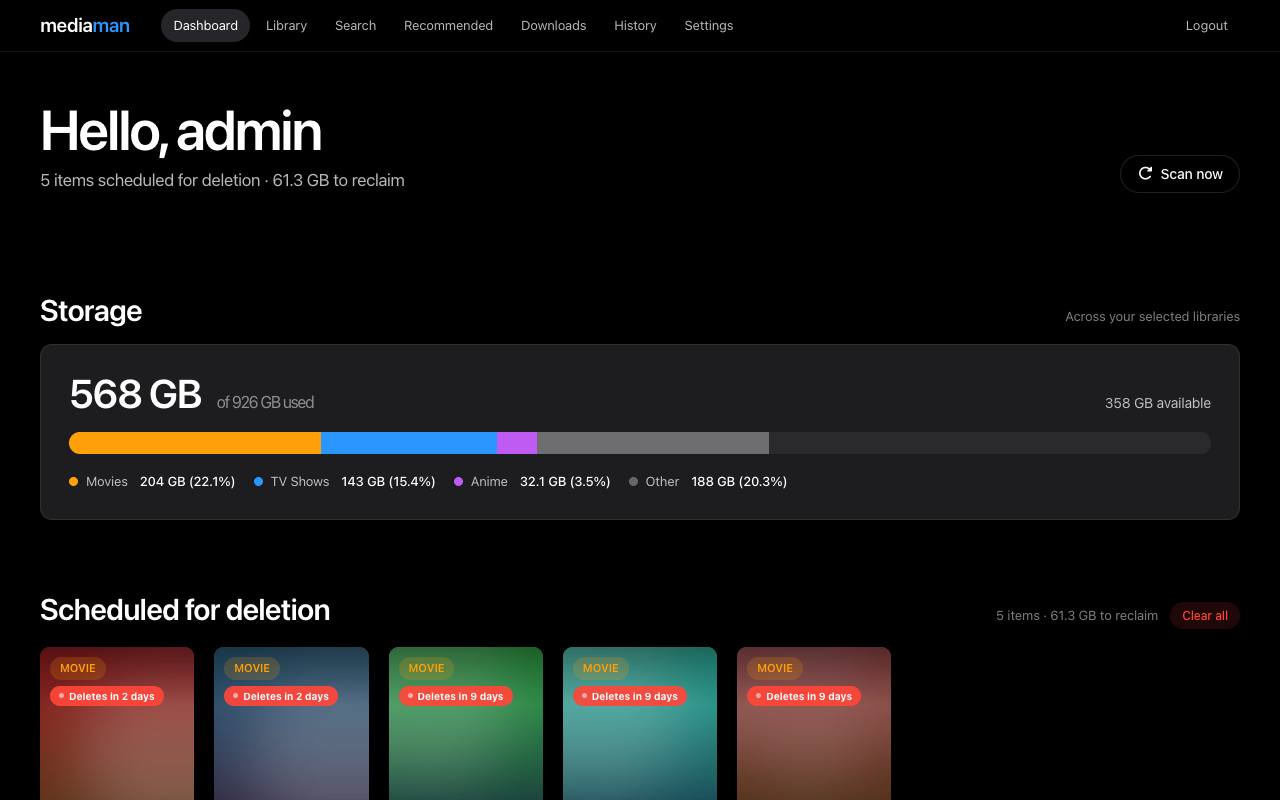
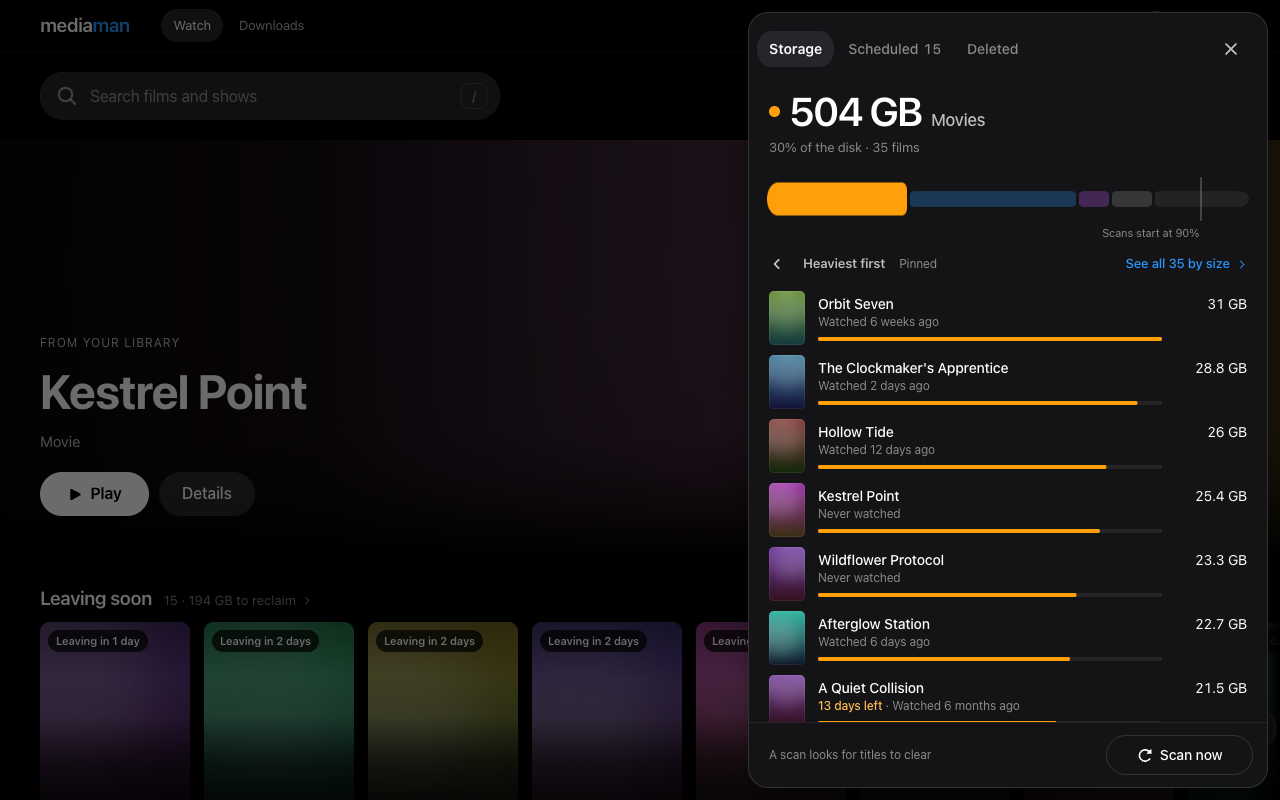
docs(readme): show watch and its storage panel in the pictures

diff --git a/README.md b/README.md
@@ -7,7 +7,7 @@ mediaman keeps a self-hosted Plex library from filling up. It queues old, unwatc
 
 <picture>
   <source media="(prefers-reduced-motion: reduce)" srcset="docs/images/screens-still.png">
-  <img src="docs/images/screens.webp" alt="mediaman's pages in turn: the Dashboard with disk use by type and five movies scheduled for deletion; the Library with sizes and last-watched dates; Downloads with a movie 62% downloaded; the History log of scans, keeps and downloads; Settings with Plex, Sonarr, Radarr, NZBGet, Mailgun, OpenAI, TMDB and OMDb connected; and the weekly newsletter email with a Keep button on each item due for deletion.">
+  <img src="docs/images/screens.webp" alt="Watch in turn: the rows with a storage meter at the top and titles leaving soon; the storage panel with the heaviest movies first; the titles scheduled for deletion, each with Keep; and the library list with sizes and last-watched dates.">
 </picture>
 
 ![The scan queues a stale movie with a grace period set in Settings. If Mailgun, a Base URL and a subscriber are set, the newsletter offers Keep. Not kept, it is deleted only inside MEDIAMAN_DELETE_ROOTS. Delete on Watch goes through Radarr or Sonarr and does not check the roots.](docs/images/how-it-works.svg)
@@ -51,10 +51,10 @@ To upgrade, `docker pull rossetv/mediaman` and recreate the container the same w
 ## On a phone
 
 <p>
-  <img src="docs/images/phone-dashboard.png" width="140" alt="The Dashboard on a phone: disk use by type above the scheduled deletions, with a tab bar at the bottom.">
-  <img src="docs/images/phone-library.png" width="140" alt="The Library on a phone: counts of movies, TV shows, anime and stale items above the searchable list.">
-  <img src="docs/images/phone-downloads.png" width="140" alt="Downloads on a phone: a movie 62% downloaded, with another download below it.">
-  <img src="docs/images/phone-settings.png" width="140" alt="Settings on a phone: section tabs across the top and the storage overview.">
+  <img src="docs/images/phone-watch.png" width="140" alt="Watch on a phone: the storage meter in the top bar, a featured film and the Leaving soon row.">
+  <img src="docs/images/phone-storage.png" width="140" alt="Storage on a phone: free space, a bar by type, and movies, TV shows and anime with their sizes.">
+  <img src="docs/images/phone-scheduled.png" width="140" alt="Scheduled for deletion on a phone: each title with its day, its size and Keep.">
+  <img src="docs/images/phone-list.png" width="140" alt="The library list on a phone: counts of movies, TV shows, anime and stale titles above each title with Keep and Delete.">
 </p>
 
 ## Watch
